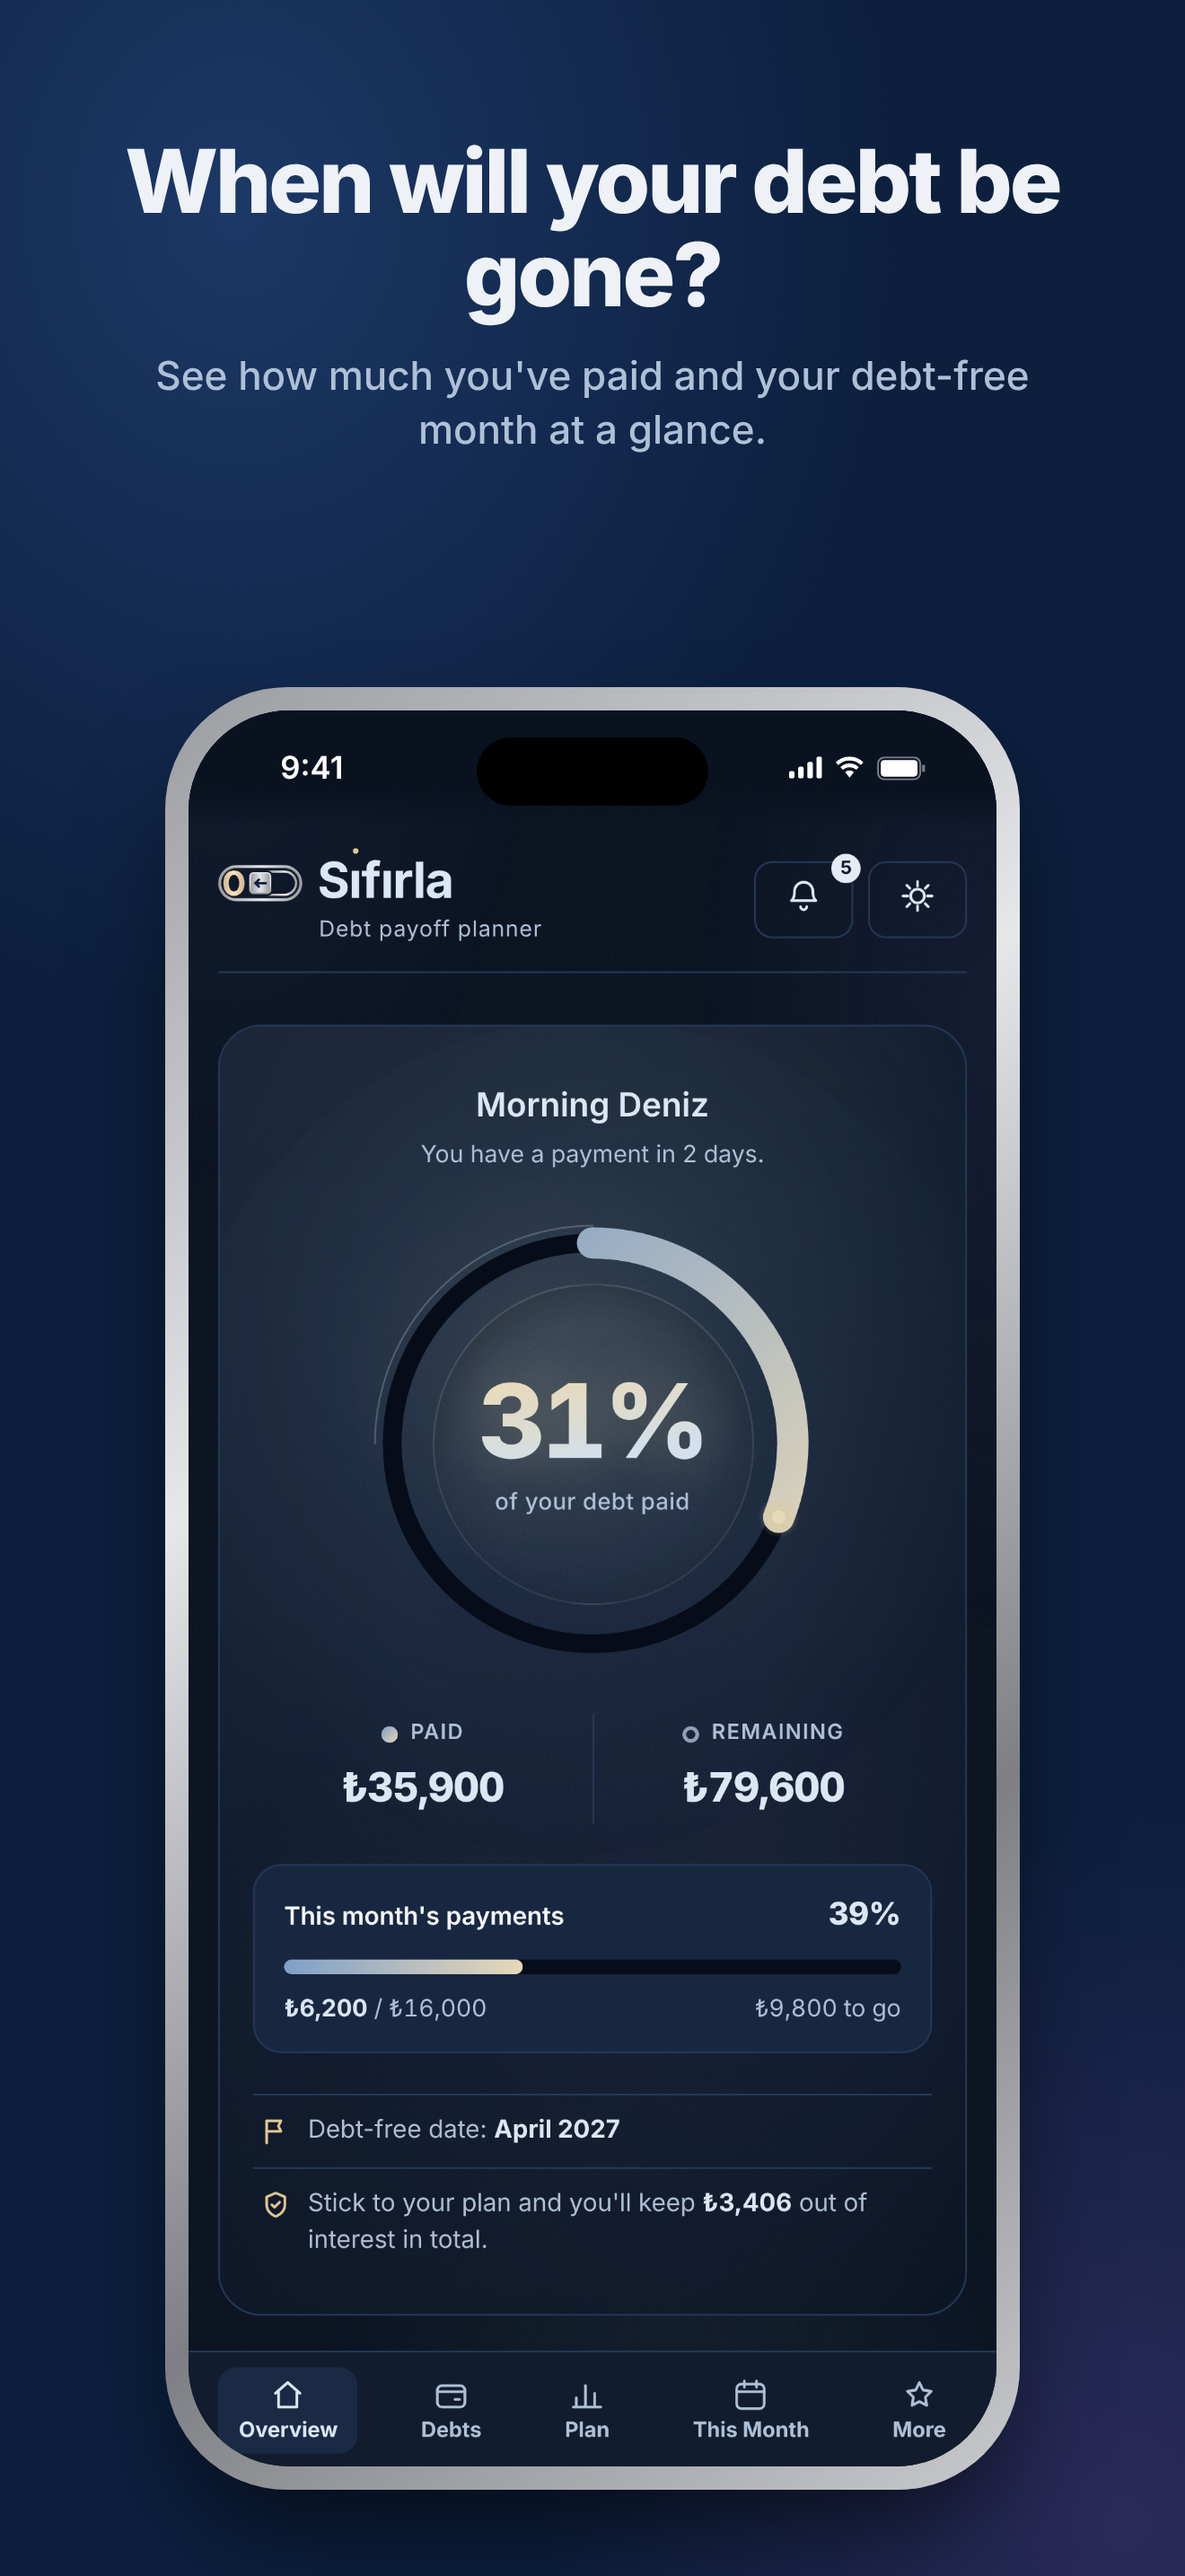
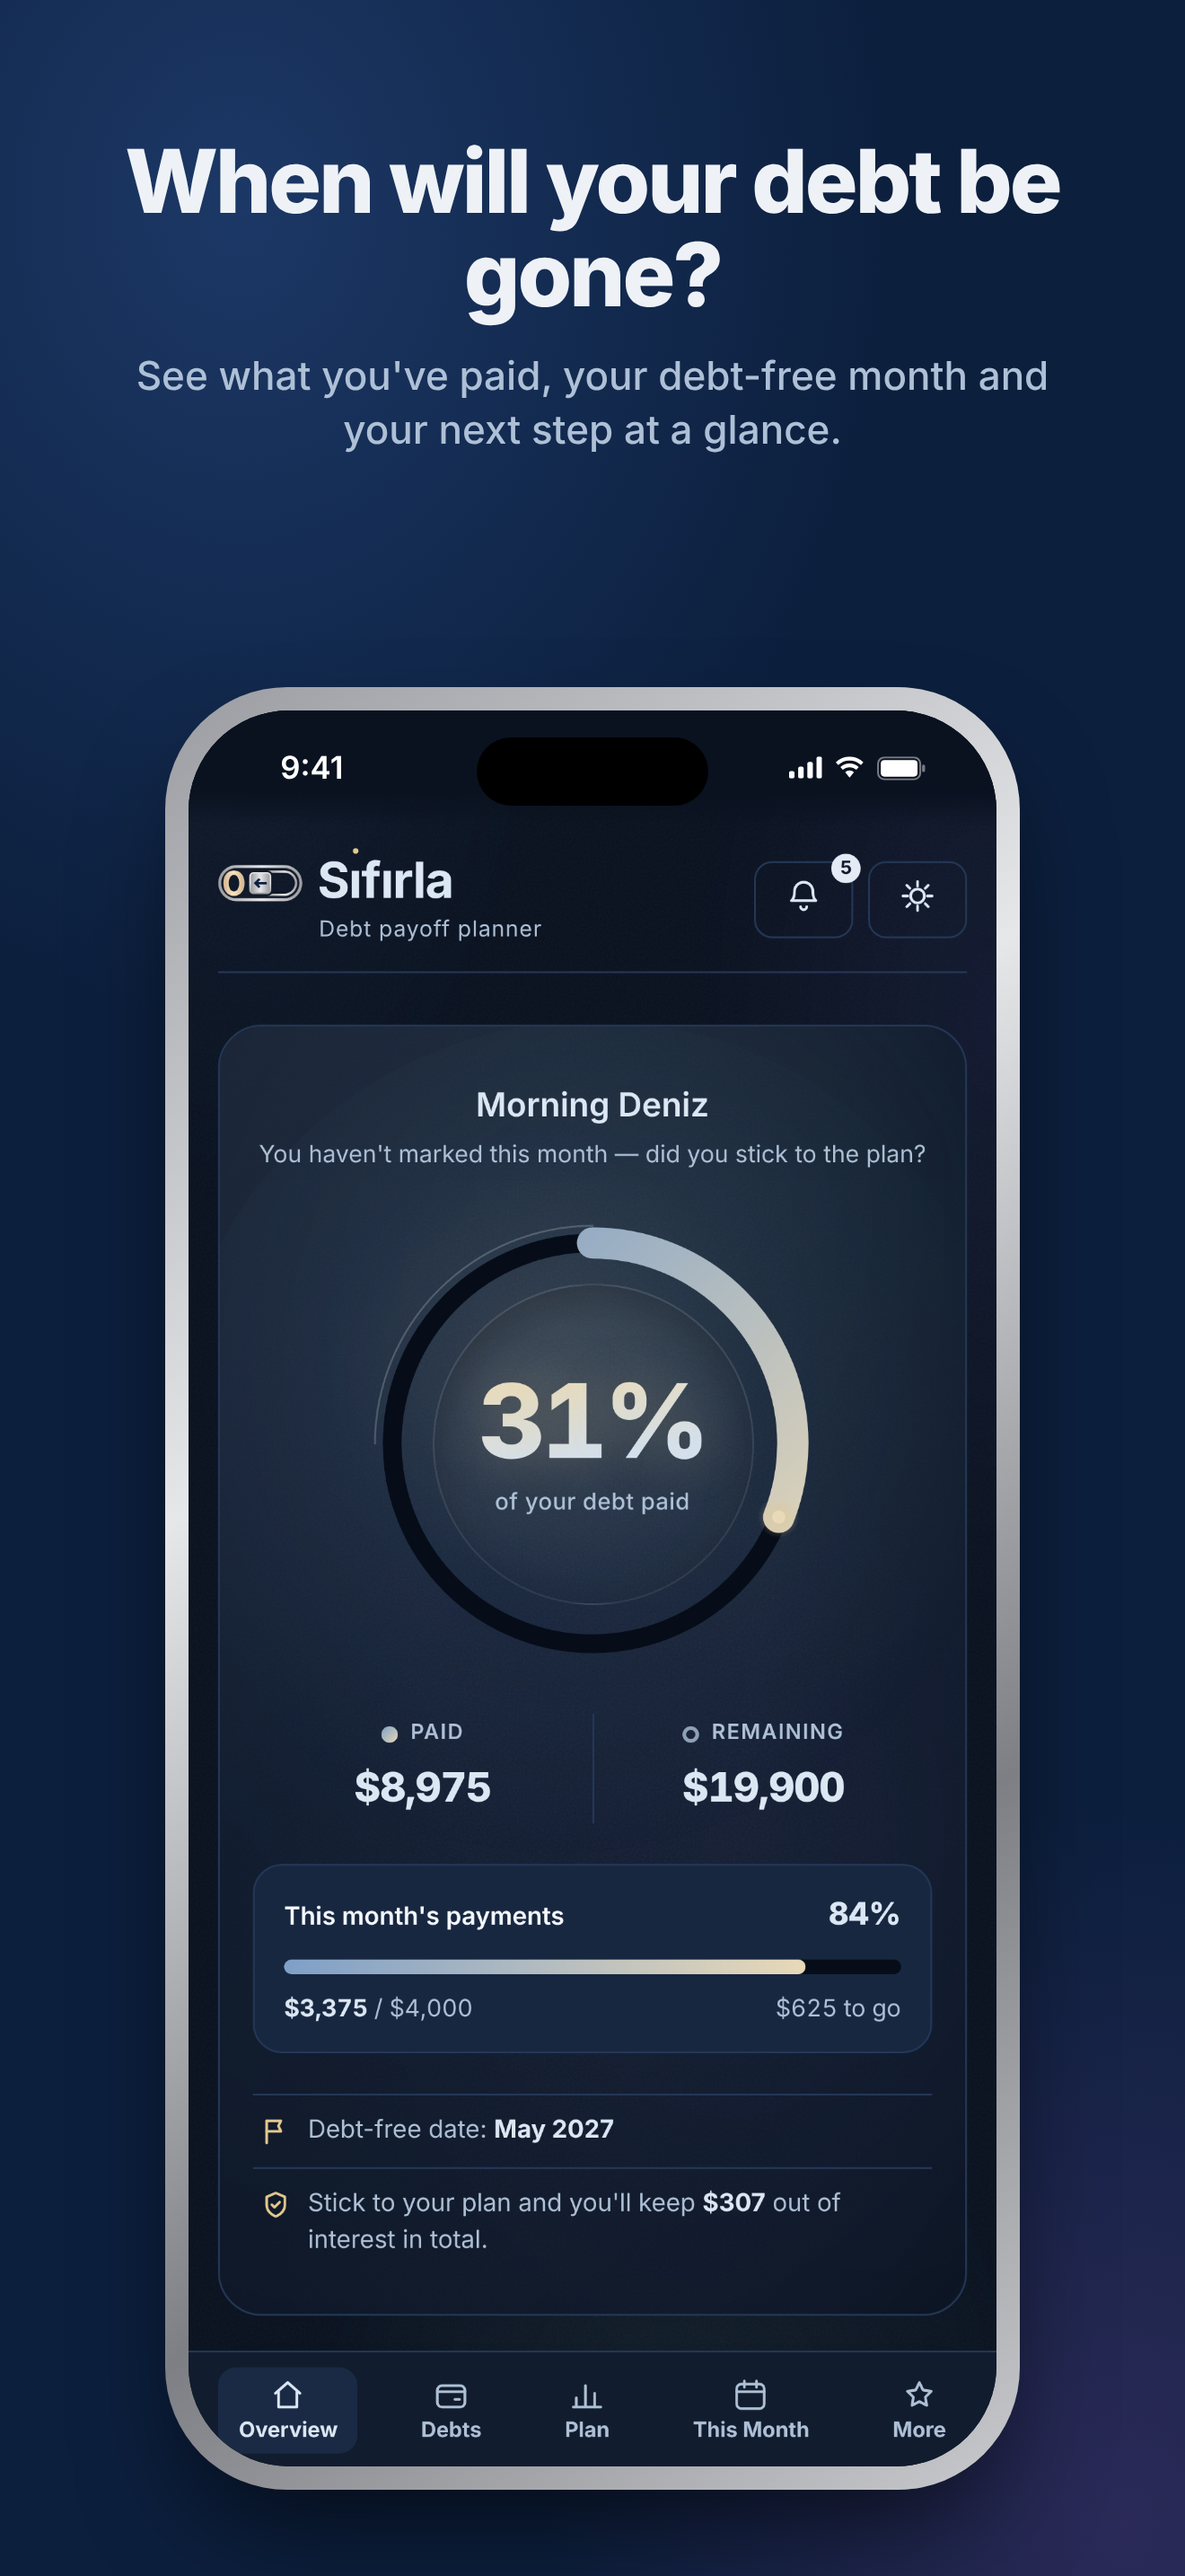
Mağaza: 6.9" ekran görüntüleri yeni düzenle (TR/EN, EN'de USD örnek) + App Store metinleri
Claude-Session: https://claude.ai/code/session_01X6m2N4tvPxHiGWT4m8T81q

diff --git a/tasarim/magaza-uret.js b/tasarim/magaza-uret.js
@@ -28,35 +28,41 @@ const DURUM_CUBUGU = 62;                        // Dynamic Island payı (mantık
 
 const METIN = {
   tr: [
-    ["Borcun ne zaman biter?", "Ne kadarını ödediğini ve borçsuz olacağın ayı tek bakışta gör."],
+    ["Borcun ne zaman biter?", "Ne kadarını ödediğini, borçsuz olacağın ayı ve sıradaki adımını tek bakışta gör."],
+    ["Borcun eriyor mu, büyüyor mu?", "Ödeme, faiz ve harcama tek grafikte. Sağlık puanın her gün güncel."],
     ["Sadece asgari ödersen ne olur?", "İki yolu yan yana koy: kaç ay, ne kadar faiz, ne kadar fark."],
-    ["Bu ay ne ödeyeceğin hazır", "Hangi borca ne kadar — plan her ay seni yönlendirir."],
-    ["Borç borç kurtuluş yolu", "Hangisi ne zaman kapanacak, sıradaki hangisi — net."],
-    ["Her ay raporun hazır", "Ne kadar ödedin, ne kadarı faize gitti, nasıl daha erken bitersin."],
-    ["Verilerin telefonunda kalır", "Hesap yok, banka bağlantısı yok, izleme yok. Borç eklemek 30 saniye."]
+    ["Bu ay ne ödeyeceğin hazır", "Hangi borca ne kadar, maaşından önce gelen vadeler — hepsi bir ekranda."],
+    ["Kahveden kıs, borcun erisin", "Küçük değişikliklerin borcunu kaç ay erken bitirdiğini gör."],
+    ["Verilerin telefonunda kalır", "Hesap yok, banka bağlantısı yok, izleme yok. Tamamen ücretsiz."]
   ],
   en: [
-    ["When will your debt be gone?", "See how much you've paid and your debt-free month at a glance."],
+    ["When will your debt be gone?", "See what you've paid, your debt-free month and your next step at a glance."],
+    ["Is your debt melting or growing?", "Payments, interest and spending in one chart. Your health score, updated daily."],
     ["What if you only pay the minimum?", "Two paths side by side: how many months, how much interest."],
-    ["This month's plan, ready", "Exactly how much to pay on each debt — every month."],
-    ["Your payoff journey", "Which debt closes when, and what's up next."],
-    ["Your monthly report", "What you paid, what went to interest, how to finish sooner."],
-    ["Your data stays on your phone", "No account, no bank linking, no tracking. Add a debt in 30 seconds."]
+    ["This month's plan, ready", "How much to pay on each debt, and due dates before payday — one screen."],
+    ["Skip a coffee, melt your debt", "See how many months small changes take off your debt."],
+    ["Your data stays on your phone", "No account, no bank linking, no tracking. Completely free."]
   ]
 }[DIL];
 
 function ornekVeri(ay, dil) {
-  const ad = dil === "en"
-    ? ["Credit card", "Overdraft account", "Personal loan", "Store card"]
+  // TR: Türk lirası ve TR faizleri; EN: ABD doları, ABD'ye uygun tutar ve faizler (uydurma örnek)
+  const en = dil === "en", f = en ? 0.25 : 1, r = (x) => Math.round(x * f);
+  const ad = en
+    ? ["Credit card", "Line of credit", "Personal loan", "Store card"]
     : ["Kredi kartı", "Esnek hesap", "İhtiyaç kredisi", "Mağaza kartı"];
+  const kartF = en ? 24 : 51, magazaF = en ? 27 : 45;
   return {
-    schemaVersion: 6, dil, paraBirimi: "TRY", tema: "dark", yontem: "avalanche", ekstra: 2500, ad: "Deniz",
-    referanslar: { kira: 15000, market: 8000, bilet: 450 },
+    schemaVersion: 6, dil, paraBirimi: en ? "USD" : "TRY", tema: "dark", yontem: "avalanche", ekstra: r(2500), ad: "Deniz",
+    denemeKarsilamaGoruldu: true, maasGunu: 15,
+    ayarlar: en ? { vergiUygula: false } : undefined,
+    yedek: { alindiMs: Date.now(), kartKapatildi: true, acilisHatirlatildi: true },
+    referanslar: { kira: r(15000), market: r(8000), bilet: r(450) },
     borclar: [
-      { ad: ad[3], type: "revolving", balance: 0, annualRate: 45, payment: 800, initialBalance: 6500, payments: [{ tarih: ay + "-02", tutar: 1200 }], dueDay: 5 },
-      { ad: ad[0], type: "revolving", balance: 38400, annualRate: 51, payment: 4900, initialBalance: 46000, payments: [{ tarih: ay + "-07", tutar: 3500 }], dueDay: 17 },
-      { ad: ad[1], type: "revolving", balance: 14200, annualRate: 51, payment: 2900, initialBalance: 18000, payments: [{ tarih: ay + "-08", tutar: 1500 }], dueDay: 22, altTur: "kmh" },
-      { ad: ad[2], type: "installment", balance: 27000, annualRate: 0, payment: 4500, initialBalance: 45000, payments: [], totalInstallments: 10, paidInstallments: 4, dueDay: 12 }
+      { ad: ad[3], type: "revolving", balance: 0, annualRate: magazaF, payment: r(800), initialBalance: r(6500), payments: [{ tarih: ay + "-02", tutar: r(1200) }], dueDay: 5 },
+      { ad: ad[0], type: "revolving", balance: r(38400), annualRate: kartF, payment: r(4900), initialBalance: r(46000), payments: [{ tarih: ay + "-07", tutar: r(4900) }], dueDay: 17, altTur: "kart", eklenmeMs: Date.now() - 120 * 864e5 },
+      { ad: ad[1], type: "revolving", balance: r(14200), annualRate: kartF, payment: r(2900), initialBalance: r(18000), payments: [{ tarih: ay + "-08", tutar: r(2900) }], dueDay: 22, altTur: "kmh", eklenmeMs: Date.now() - 120 * 864e5 },
+      { ad: ad[2], type: "installment", balance: r(27000), annualRate: 0, payment: r(4500), initialBalance: r(45000), payments: [{ tarih: ay + "-12", tutar: r(4500) }], totalInstallments: 10, paidInstallments: 4, dueDay: 12, eklenmeMs: Date.now() - 120 * 864e5 }
     ]
   };
 }
@@ -83,6 +89,10 @@ async function main() {
     localStorage.setItem("borcPlanlayici.ikiYolAn", "1");
     localStorage.setItem("borcPlanlayici.kurulumRed", "1");
     localStorage.setItem("borcPlanlayici.v1", JSON.stringify(veri));
+    // Geçmiş aylar (grafik için): toplam borç her ay biraz eriyor
+    const n = new Date(), k = (i) => { const d = new Date(n.getFullYear(), n.getMonth() - i, 1); return d.getFullYear() + "-" + String(d.getMonth() + 1).padStart(2, "0"); };
+    const aylik = {}; [[5, 112000], [4, 106500], [3, 101200], [2, 95300], [1, 89900]].forEach(([i, v]) => { aylik[k(i)] = Math.round(v * (veri.paraBirimi === "USD" ? 0.25 : 1)); });
+    localStorage.setItem("borcPlanlayici.rozet.v1", JSON.stringify({ aylik, checkin: {} }));
   }, [ornekVeri(ay, DIL)]);
   await s.goto(ADRES);
   await s.waitForTimeout(1300);
@@ -97,15 +107,18 @@ async function main() {
     await s.evaluate(([q, p]) => { const e = document.querySelector(q); if (e) window.scrollTo(0, e.getBoundingClientRect().top + window.scrollY - p); }, [secici, pay]);
     await s.waitForTimeout(1400);
   };
+  await s.evaluate(() => { window.aracAcTest = (id) => { const d = document.querySelector(`[data-arac-ac="${id}"]`); if (d && !document.getElementById(id).classList.contains("arac-acik")) d.click(); }; });
   const ham = [];
   const cek = async () => { const b = await s.screenshot(); ham.push(b); };
 
   await sekme("genel"); await kaydir("body", 0); await s.waitForTimeout(600); await cek();            // 1 ana panel
-  await sekme("plan"); await kaydir("#ikiYolKart", DURUM_CUBUGU + 12); await cek();                    // 2 İki Yol
-  await sekme("buay"); await kaydir("body", 0); await cek();                                           // 3 Bu Ay
-  await sekme("genel"); await kaydir("#yolculuk", DURUM_CUBUGU + 70); await cek();                    // 4 Yolculuk
-  await sekme("buay"); await s.click("#aylikRaporBtn"); await s.waitForTimeout(1800); await cek();     // 5 Aylık rapor
-  await s.evaluate(() => { document.getElementById("raporOverlay").hidden = true; });
+  await sekme("genel"); await kaydir("#degisimKart", DURUM_CUBUGU + 12); await cek();                 // 2 borç değişimi
+  await sekme("plan"); await s.evaluate(() => aracAcTest("ikiYolKart")); await s.waitForTimeout(500);
+  await kaydir("#ikiYolKart", DURUM_CUBUGU + 12); await cek();                                         // 3 İki Yol
+  await sekme("buay"); await kaydir("body", 0); await cek();                                           // 4 Bu Ay
+  await sekme("plan"); await s.evaluate(() => aracAcTest("kdKart")); await s.waitForTimeout(500);
+  for (const k of ["siparis", "siparis", "taksi", "taksi"]) { await s.click(`[data-kd-artir="${k}"]`).catch(() => {}); await s.waitForTimeout(200); }
+  await kaydir("#kdKart", DURUM_CUBUGU + 12); await cek();                                             // 5 Küçük değişiklik
   await sekme("borclar"); await s.click("#sekme-borclar .borcEkleGit"); await s.waitForTimeout(900); await cek(); // 6 Borç ekle
   await ctx.close();
 

diff --git a/magaza/METINLER.md b/magaza/METINLER.md
@@ -1,0 +1,109 @@
+# Sıfırla — App Store metinleri (1.0)
+
+Genel
+- Kategori: **Finans** (ikincil: Verimlilik)
+- Fiyat: **Ücretsiz** · Uygulama içi satın alma: **yok**
+- Gizlilik etiketi: **Veri Toplanmıyor** (Data Not Collected)
+- Destek URL: https://sifirla.app · Pazarlama URL: https://sifirla.app
+- Gizlilik URL: https://sifirla.app/gizlilik.html (EN: https://sifirla.app/privacy.html)
+- Telif: © 2026 Sıfırla
+- Yaş derecesi: tüm sorulara "Yok / Hayır" → 4+
+- Şifreleme (Export Compliance): Info.plist'te `ITSAppUsesNonExemptEncryption = NO`
+- Ekran görüntüleri: `magaza/tr/01–06.png`, `magaza/en/01–06.png` (1320×2868, 6.9")
+
+---
+
+## Türkçe
+
+**Ad (≤30):** Sıfırla: Borç Planlayıcı
+
+**Alt başlık (≤30):** Kredi kartı ve borç kapatma
+
+**Tanıtım metni (≤170):**
+Borcunun ne zaman biteceğini gör, her ay ne ödeyeceğini bil. Tamamen ücretsiz; hesap yok, banka bağlantısı yok, verilerin telefonundan çıkmaz.
+
+**Açıklama:**
+Sıfırla, kredi kartı, KMH ve kredi borçlarını kapatmak için sade bir planlayıcı. Borçlarını bir kez gir; hangi borca ne kadar ödemen gerektiğini, borçsuz olacağın ayı ve ne kadar faizden kurtulacağını hemen gör.
+
+NE YAPAR
+• Borçsuz olacağın tarih ve ödediğin oran, tek bakışta
+• "Bu ay ne ödemeliyim?" — her borca tutar, sıradaki adımın
+• Kendi planını kur ya da Sıfırla önersin (çığ veya kartopu yöntemi)
+• Sadece asgari ödersen ne olur? İki yolu yan yana karşılaştır
+• Faiz ve gecikme faizi borcuna nasıl ekleniyor, açıkça gör
+• Borcun eriyor mu büyüyor mu: aylık grafik ve borç sağlık puanı
+• Kart harcaması ekle, ekstre gelince bankanın rakamıyla eşitle
+• Kahveden, siparişten kıs: küçük değişikliklerin borcunu kaç ay erken bitirdiğini gör; kumbarada biriktir, tek dokunuşla borca yatır
+• Maaş günü planı: maaştan önce gelen son ödeme günlerini haber verir
+• Son ödeme günü hatırlatmaları (kilit ekranında tutar gizli)
+• Ay sonu karnesi, rozetler ve ödeme serisi
+• Türkiye'ye uygun: KKDF/BSMV, TCMB faiz tavanları, kart asgari kuralı
+
+GİZLİLİK İLKEMİZ
+• Hesap açmazsın, banka hesabını bağlamazsın
+• Hiçbir veri toplanmaz, sunucuya gönderilmez; her şey telefonunda kalır
+• İnternetsiz çalışır
+• Reklam ve izleyici yok
+
+TAMAMEN ÜCRETSİZ
+Deneme süresi, abonelik veya uygulama içi satın alma yok.
+
+Not: Sıfırla eğitim ve planlama aracıdır, finansal danışmanlık değildir. Hesaplar tahminidir; bankanın gerçek tutarları farklı olabilir.
+
+**Anahtar kelimeler (≤100):**
+borç,kredi kartı,kmh,asgari,faiz,bütçe,kartopu,çığ,taksit,hesap,tasarruf,ödeme,hatırlatma,kredi
+
+**Bu sürümdeki yenilikler:** İlk sürüm.
+
+---
+
+## English
+
+**Name (≤30):** Sıfırla: Debt Payoff Planner
+
+**Subtitle (≤30):** Pay off cards & loans faster
+
+**Promotional text (≤170):**
+See when your debt will be gone and exactly what to pay each month. Completely free, no account, no bank linking — your data never leaves your phone.
+
+**Description:**
+Sıfırla is a simple planner for paying off credit cards, lines of credit and loans. Enter your debts once and instantly see how much to pay on each one, your debt-free month and how much interest you'll save.
+
+WHAT IT DOES
+• Your debt-free date and progress at a glance
+• "What should I pay this month?" — an amount for every debt and your next step
+• Build your own plan or let Sıfırla suggest one (avalanche or snowball)
+• What if you only pay the minimum? Compare two paths side by side
+• See exactly how interest and late interest are added to your balance
+• Is your debt melting or growing: a monthly chart and a debt health score
+• Log card spending; match the bank's figure when your statement arrives
+• Skip a coffee or a delivery: see how many months small changes take off, save them in a jar and pay them to a debt in one tap
+• Payday plan: flags due dates that come before payday
+• Due-date reminders (amounts hidden on the lock screen)
+• Month-end report card, badges and payment streaks
+
+PRIVACY FIRST
+• No account, no bank linking
+• No data collected or sent to any server — everything stays on your phone
+• Works offline
+• No ads, no trackers
+
+COMPLETELY FREE
+No trial, no subscription, no in-app purchases.
+
+Note: Sıfırla is an educational planning tool, not financial advice. Calculations are estimates; your bank's actual amounts may differ.
+
+**Keywords (≤100):**
+debt,payoff,credit card,loan,interest,budget,snowball,avalanche,minimum payment,planner,tracker
+
+**What's new:** First release.
+
+---
+
+## İnceleme ekibine not (App Review Notes) — İngilizce
+
+Sıfırla is a fully offline debt payoff planner. There is no login, no account and no server: all data is stored on the device only. No in-app purchases or subscriptions.
+
+To test: open the app, choose language and currency, then tap "Add debt" and enter any sample values (e.g. Credit card, balance 20,000, 45% annual interest, minimum 4,000). The Overview, This Month and Plan tabs then show the payoff plan. Reminders use local notifications only (Settings → Reminders → "Send test notification").
+
+The app does not provide loans, credit or banking services and does not connect to any financial institution; it only performs calculations on numbers the user enters. A disclaimer ("not financial advice") is shown on every calculation screen.
